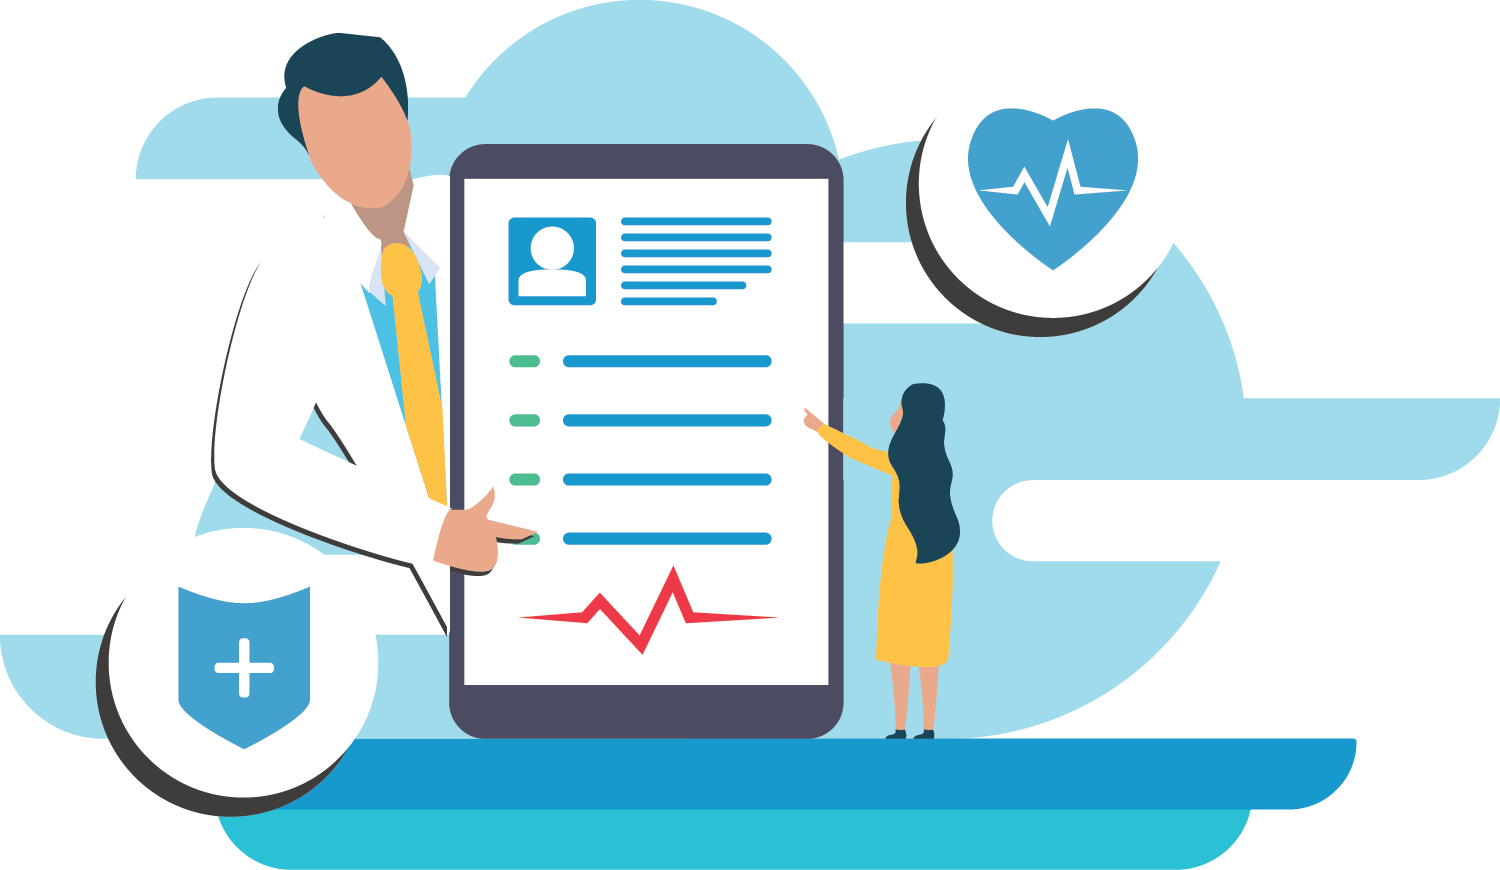
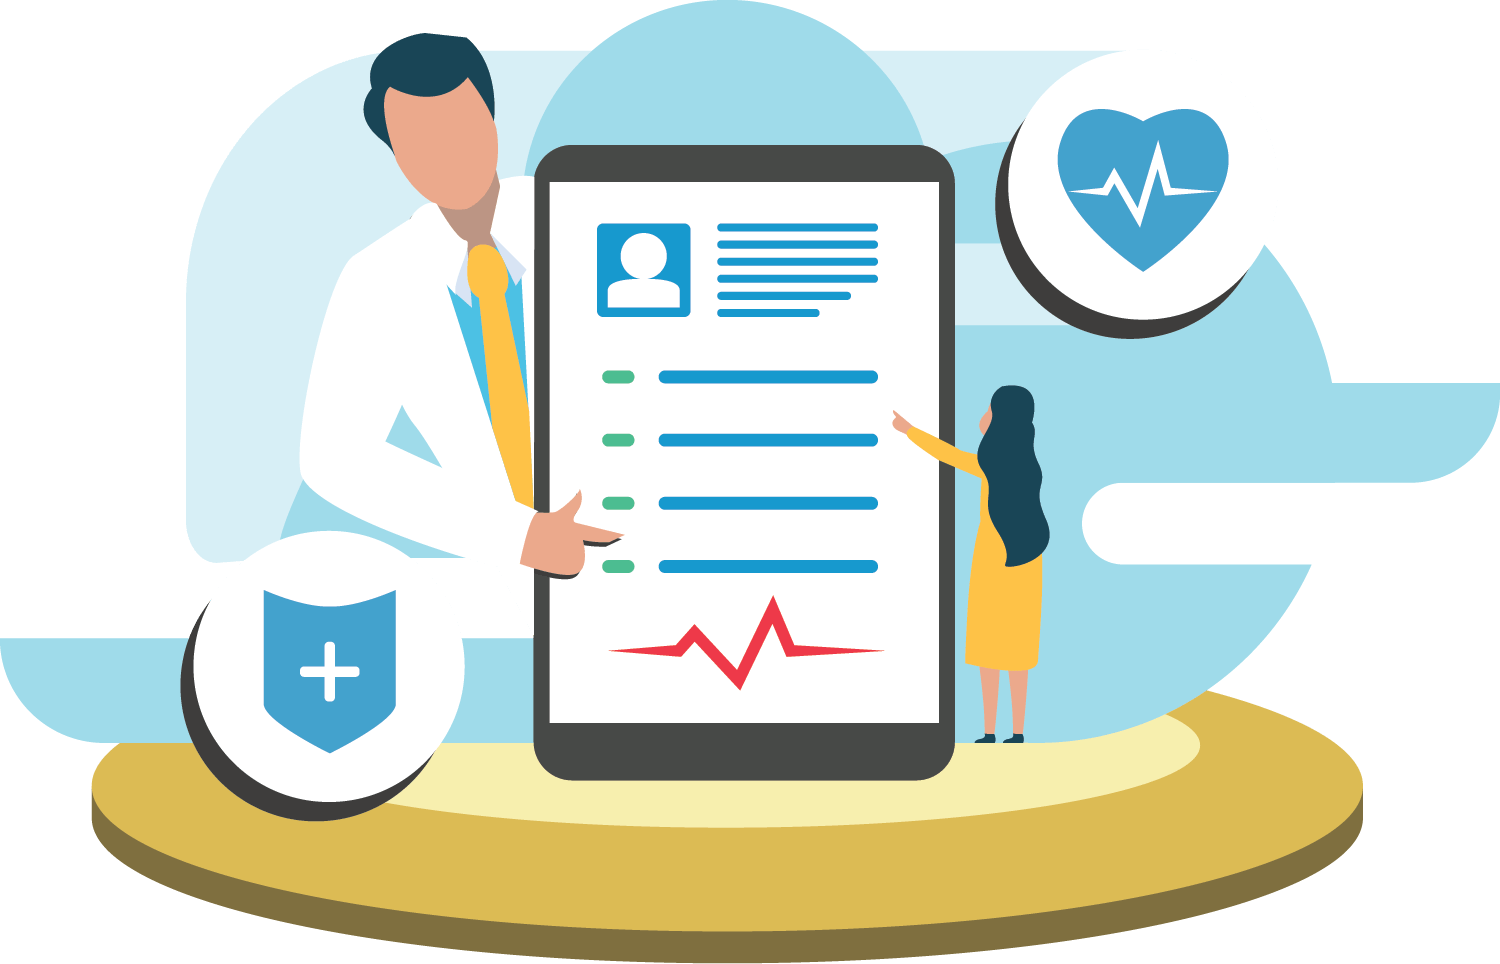
refactor: update usps

diff --git a/pages/telehealth/index.vue b/pages/telehealth/index.vue
@@ -8,7 +8,7 @@
       btn-text="Get Started Free"
       regular-height="600px"
       image="Telehealth USP"
-      image-width="105%"
+      image-width="90%"
       image-align="right"
       custom-image-path="telehealth/"
       @click="$nuxt.$router.push({ name: 'signup-health-facilities', query: { type: 'doctor-telehealth' }})"

diff --git a/pages/clinics/index.vue b/pages/clinics/index.vue
@@ -10,7 +10,7 @@
       btn-text="Get Started"
       btn-color="success"
       image="Clinics USP"
-      image-width="100%"
+      image-width="90%"
       custom-image-path="clinics/"
       :parse-meta-title-fields="['Complete ']"
       :parse-title-fields="['workflows, ', 'results, ']"

diff --git a/pages/diagnostics/index.vue b/pages/diagnostics/index.vue
@@ -9,7 +9,6 @@
       text-col="3"
       image-col="7"
       image-col-offset="1"
-      image-width="125%"
       custom-image-path="diagnostics/"
       regular-height="650px"
       wide-height="950px"
